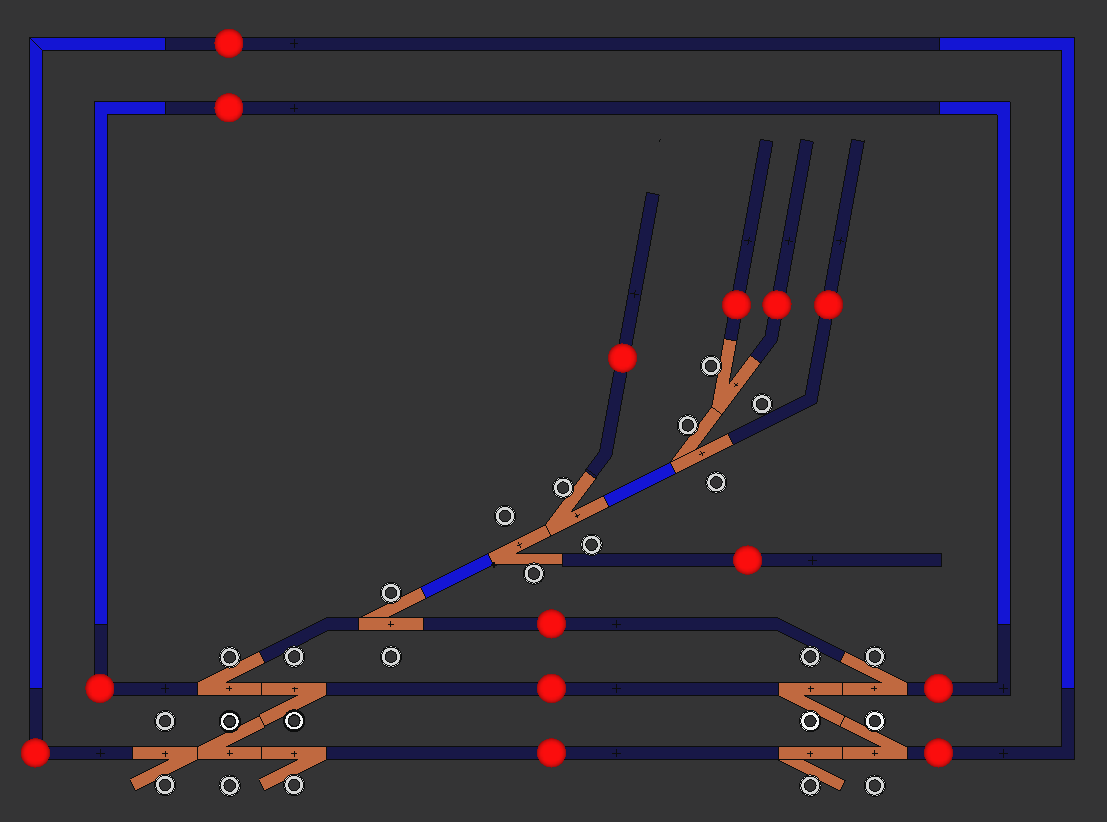
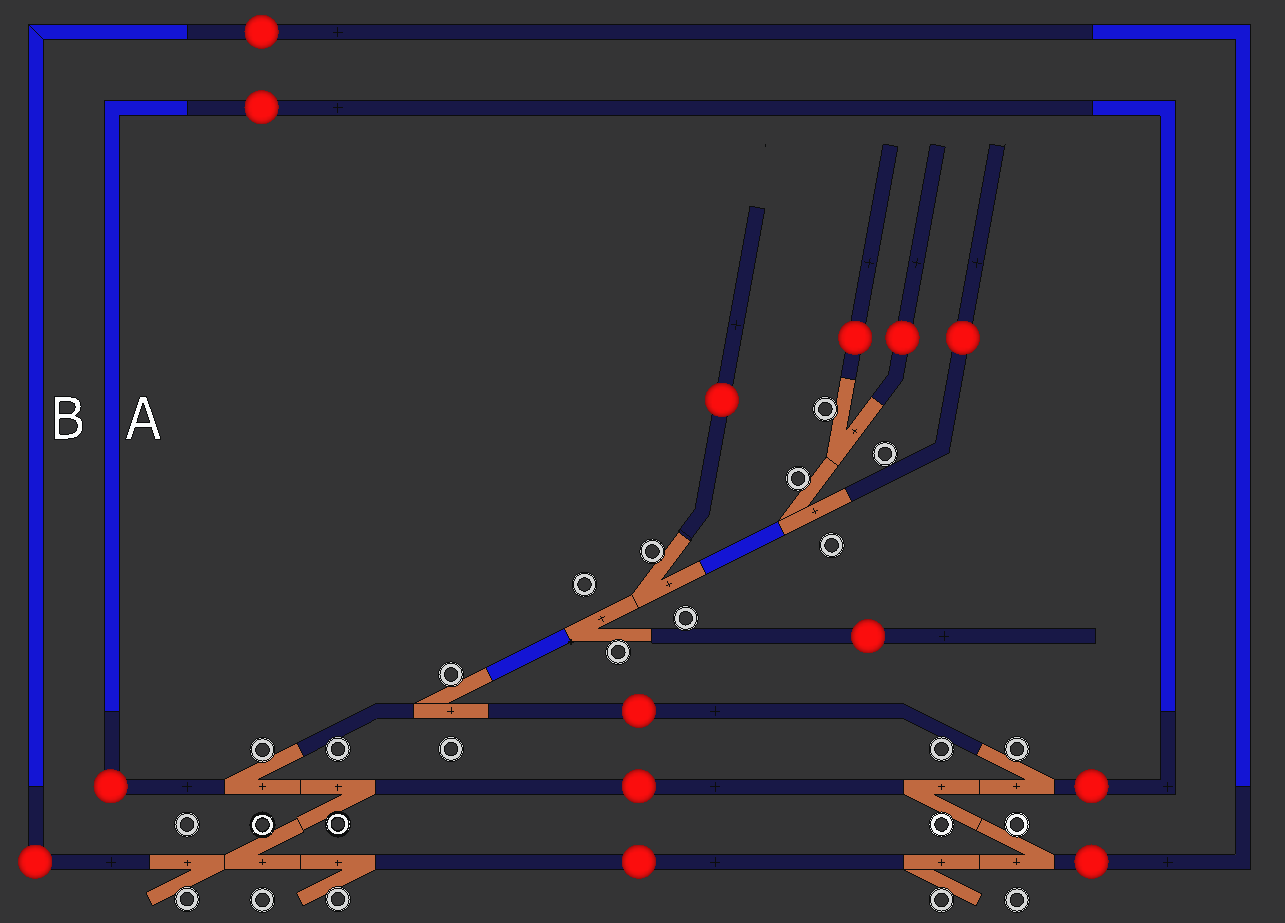
Map areas are dynamically added from relays.ini

diff --git a/index.php b/index.php
@@ -45,6 +45,20 @@ function Notused_toggleDevice(device){
 }
 */
 
+function getRelayCategory(relay){
+	//this function could never be used
+	var v = relay.split("-");
+	var cat = "unknown";
+	if (v[0] == "P"){
+		cat="power";
+	}
+	if (v[0] == "S"){
+		cat="switch";
+	}
+	return cat;
+	
+}
+
 function sendMessage (data){
 	var xhttp;
 
@@ -62,22 +76,24 @@ function sendMessage (data){
 
 }
 
-function toggleDevice(cat, device){
-	var info = '{"device":"'+ device + '","category":"'+ cat + '"}';
+function toggleDevice(device){
 	var method = 'toggle';
-	var data = "service.php?method=" + method + "&info=" + info;   
+	var info = '{"device":"'+ device + '","method":"'+ method + '"}';
+	var data = "service.php?info=" + info;   
 	return sendMessage(data);
 }
 
 function allStop(){
-	var method = 'allstop';
-	var data = 'service.php?method=' + method;   
+	var method = 'allstop';	
+	var info = '{"method":"'+ method + '"}';
+	var data = "service.php?info=" + info;   
 	alert(sendMessage(data));
 }
 
 function allStart(){
 	var method = 'allstart';
-	var data = 'service.php?method=' + method;   
+	var info = '{"method":"'+ method + '"}';
+	var data = "service.php?info=" + info;   
 	alert(sendMessage(data));
 }
 
@@ -100,16 +116,7 @@ image.mapster({
         },
 
         onClick: function (e) {
-		var rel = e.key;
-		var v = rel.split("-");
-		var cat;
-		if (v[0] == "P"){
-			cat="power";
-		}
-		if (v[0] == "S"){
-			cat="switch";
-		}
-		var resp = toggleDevice(cat,v[1]);
+		var resp = toggleDevice(e.key);
         },
 
 });
@@ -122,17 +129,28 @@ $('#Lallstop').click(function(){
 	return false;
 });
 $('#Lallstart').click(function(){ 
-	/*
-	var opts = {};
-	var opts = image.mapster('get_options');
-	image.mapster(opts);
-	*/
 	allStart();
 	//image.mapster('set',true,'P-REL01');
 	var neKeys = image.mapster('keys','all');
 	image.mapster('set', true, neKeys);
 	return false; 
 });
+
+//Capture start and stop events of the different circuits
+$('#LstartA').click(function(){ 
+	//startA();
+	var neKeys = image.mapster('keys','circA');
+	image.mapster('set', true, neKeys);
+	return false; 
+});
+$('#LstopA').click(function(){ 
+	//stopA();
+	var neKeys = image.mapster('keys','circA');
+	image.mapster('set', false, neKeys);
+	return false; 
+});
+
+
 
 //Change maps size dynamically
 $('#innerDecrease').click(function(){ innerSize(0.9); return false; });
@@ -196,17 +214,36 @@ $('#innerIncrease').click(function(){ innerSize(1.1); return false; });
 	<div class="row">
 			<div class="panel panel-default"><a name="inner"></a>
 				<div class="panel-heading">Inner Circuit</div>
-				<div class="panel-body">
+				<div class="panel-body" style="float: left; margin: 0px 30px 0px 0px;">
 					<a id="innerIncrease" href="#"><img src="img/map_increase.png"></a>&nbsp;
 					<a id="innerDecrease" href="#"><img src="img/map_decrease.png"></a>
 					<br /><br />
 					<img width="<?php print_r($configv["mapwidth"])?>%" src="map/train1.png" usemap="#train1" border="0" id="innermap">
 					<map name="train1" id="train1_map">
-						<area shape="circle" coords="228,44,<?php print_r($configv["electric_light_width"])?>" href="#" data-key="P-REL01,all">
-						<area shape="circle" coords="228,108,<?php print_r($configv["electric_light_width"])?>" href="#" data-key="P-REL02,all">
+					<?php
+					foreach($vRelays['power'] as $r=>$info) {
+						$jinfo = json_decode($info);
+						$coord = $jinfo->{"coord"};
+						$text = '<area shape="circle" coords="'.$coord.','.$configv["electric_light_width"].'" href="#" data-key="'.$r.',all,circB">';
+						print_r($text);
+
+					}					
+					?>
 					</map>
 
 				</div>
+				<div style="margin: 70px 0px 0px 70px;">
+                			<ul>
+                    				<li><a id="LstartA" href="#">Start A</a></li>
+                    				<li><a id="LstopA" href="#">Stop A</a></li>
+					</ul>   	
+					<ul>
+						<li><a>Start B</a>
+						<li><a>Stop B</a>
+					</ul>
+	
+				</div>
+				<br style="clear:both" />
 			</div>
 			<div class="panel panel-default"><a name="outer"></a>
 				<div class="panel-heading">Outer Circuit</div>

diff --git a/relay.py b/relay.py
@@ -2,8 +2,7 @@
 # Name:			relay
 # Purpose		This program interfaces from TrainMaster UI service.php to the Raspberry Pi
 # Arguments list:	method = toggle | allstop | allstart
-# 			category = power | switch
-#			relay = relay code
+#			relay = relay code. Example P-REL01
 #
 # Author:		Manuel
 # Shift register pinout :
@@ -25,6 +24,7 @@ GPIO.output(18, False)
 import relaylib
 import sys
 import ConfigParser
+import json
 #from shiftpi import HIGH, LOW, digitalWrite, delay
 
 relaylib.log("INFO","Starting...")
@@ -46,11 +46,32 @@ def shiftRegisters(number):
 #### comment until here
 
 # Helpful methods
+
+## returns Json
+def getRelayData(relays,cat,relay):
+	data_str =  relays.get(cat, relay)
+	data_str = data_str.replace("'","")
+	data = json.loads(data_str)
+	return data
+
+def findRelayCategory(relay):
+	aux = relay.strip().split('-')
+	cat = "unknown"
+	if aux[0].upper()=="P":
+		cat="power"
+	if aux[0].upper()=="S":
+		cat="switch"
+	
+	return cat
+
 def allStop(relays):
 	digitalWrite(ALL, LOW)
 	options = relays.options("power")
 	for option in options:
-		relays.set("power", option, LOW)
+		data = getRelayData(relays,"power",option)
+		data['value']=LOW
+		data = "'" + json.dumps(data) + "'"
+		relays.set("power", option, data)
 	with open('relays.ini', 'wb') as relayfile:
 	    relays.write(relayfile)
 
@@ -59,10 +80,22 @@ def allStart(relays):
 	digitalWrite(ALL, HIGH)
 	options = relays.options("power")
 	for option in options:
-		relays.set("power", option, HIGH)
+		data = getRelayData(relays,"power",option)
+		data['value']=HIGH
+		data = "'" + json.dumps(data) + "'"
+		relays.set("power", option, data)
 	with open('relays.ini', 'wb') as relayfile:
 	    relays.write(relayfile)
 
+
+# Write the status permanently
+def writeRelayStatus(relays, category, relay, value):
+	data = getRelayData(relays,category,relay)
+	data['value']=value
+	data = "'" + json.dumps(data) + "'"
+	relays.set(category, relay, data)
+	with open('relays.ini', 'wb') as relayfile:
+	    relays.write(relayfile)
 
 
 def relayHigh(relays, category, relay):
@@ -73,18 +106,9 @@ def relayLow(relays, category, relay):
 	digitalWrite(relay, LOW)
 	writeRelayStatus(relays, category, relay, LOW)
 
-#Function to know the current status
-def getCurrentStatus(relays, category, relay):
-	return relays.get(category, relay)
-
-# Write the status permanently
-def writeRelayStatus(relays, category, relay, value):
-	relays.set(category, relay, value)
-	with open('relays.ini', 'wb') as relayfile:
-	    relays.write(relayfile)
 
 #Get the method and the relay from command line
-if len(sys.argv) < 4:
+if len(sys.argv) < 3:
     relaylib.log("ERROR","Incorrect number of arguments to run the program")
     sys.exit(1)
 
@@ -93,17 +117,16 @@ relays = ConfigParser.RawConfigParser()
 relays.read('relays.ini')
 
 method = sys.argv[1]
-category = sys.argv[2]
-relay = sys.argv[3]
-
+relay = sys.argv[2]
+category = findRelayCategory(relay)
 shiftRegisters(1)
 
 # Define actione based on method received
 if method=="toggle":
-	status = getCurrentStatus(relays, category, relay)
-	if status == LOW:
+	data = getRelayData(relays, category, relay)
+	if data['value'] == LOW:
 		relayHigh(relays, category, relay)
-	if status == HIGH:
+	if data['value'] == HIGH:
 		relayLow(relays, category, relay)
 
 if method=="allstop":

diff --git a/service.php b/service.php
@@ -1,11 +1,13 @@
-   <?php
+<?php
 /*
 	This script provides a RESTful API interface for a web application
 
 	Input:
 
 		$_GET['format'] = [ json | html | xml ]
-		$_GET['method'] = [ toggle | allstop | allstart]
+		$_GET['info'] = JSON
+		JSON method = [ toggle | allstop | allstart]
+		JSON device = P-REL01 for example
 
 	Output: A formatted HTTP response
 
@@ -140,43 +142,49 @@ if( $authentication_required ){
 }
 
 // --- Step 3: Process Request
-
-// Method Say Hello to the API
-if( strcasecmp($_GET['method'],'hello') == 0){
-	$response['code'] = 1;
-	$response['status'] = $api_response_code[ $response['code'] ]['HTTP Response'];
-	$response['data'] = 'Hello World';
-}
-
-// Method Toggle device
-if( strcasecmp($_GET['method'],'toggle') == 0){
-	$response['code'] = 1;
-	$response['status'] = $api_response_code[ $response['code'] ]['HTTP Response'];
-	$info = json_decode(urldecode($_GET['info']));
+// Mandatory to have a method field in the JSON
+$info = json_decode(urldecode($_GET['info']));
+if(!property_exists($info, 'method') && !is_array($info->method)){
+	$response['data']= "Missing method";
+	$response['code'] = 5;
+}else{
+	$method = $info->method;
 	$device = $info->device;
-	$cat = $info->category;
-	$result = shell_exec("python relay.py ".$_GET['method']." ".$cat." ".$device);
-	//$result = "python relay.py ".$_GET['method']." ".$cat." ".$device;
-	$response['data'] = $result;
+
+
+	// Method Say Hello to the API
+	if( strcasecmp($method,'hello') == 0){
+		$response['code'] = 1;
+		$response['status'] = $api_response_code[ $response['code'] ]['HTTP Response'];
+		$response['data'] = 'Hello World';
+	}
+
+	// Method Toggle device
+	if( strcasecmp($method,'toggle') == 0){
+		$response['code'] = 1;
+		$response['status'] = $api_response_code[ $response['code'] ]['HTTP Response'];
+		$result = shell_exec("python relay.py ".$method." ".$device);
+		$response['data'] = $result;
+	}
+	
+	// Method Emergency stop
+	if( strcasecmp($method,'allstop') == 0){
+		$response['code'] = 1;
+		$response['status'] = $api_response_code[ $response['code'] ]['HTTP Response'];
+		$result = shell_exec("python relay.py ".$method." dummy");
+		$response['data'] = $result;
+	}
+	
+	
+	// Method to enable all
+	if( strcasecmp($method,'allstart') == 0){
+		$response['code'] = 1;
+		$response['status'] = $api_response_code[ $response['code'] ]['HTTP Response'];
+		$result = shell_exec("python relay.py ".$method." dummy");
+		$response['data'] = $result;
+	}
+	
 }
-
-// Method Emergency stop
-if( strcasecmp($_GET['method'],'allstop') == 0){
-	$response['code'] = 1;
-	$response['status'] = $api_response_code[ $response['code'] ]['HTTP Response'];
-	$result = shell_exec("python relay.py ".$_GET['method']." dummy dummy");
-	$response['data'] = $result;
-}
-
-
-// Method to enable all
-if( strcasecmp($_GET['method'],'allstart') == 0){
-	$response['code'] = 1;
-	$response['status'] = $api_response_code[ $response['code'] ]['HTTP Response'];
-	$result = shell_exec("python relay.py ".$_GET['method']." dummy dummy");
-	$response['data'] = $result;
-}
-
 // --- Step 4: Deliver Response
 
 // Return Response to browser

diff --git a/basic.php b/basic.php
@@ -2,6 +2,9 @@
 
 <?php
 global $configv;
+global $vRelays;
 $configv = parse_ini_file("config.ini");
+
+$vRelays = parse_ini_file("relays.ini",true);
 
 ?>
